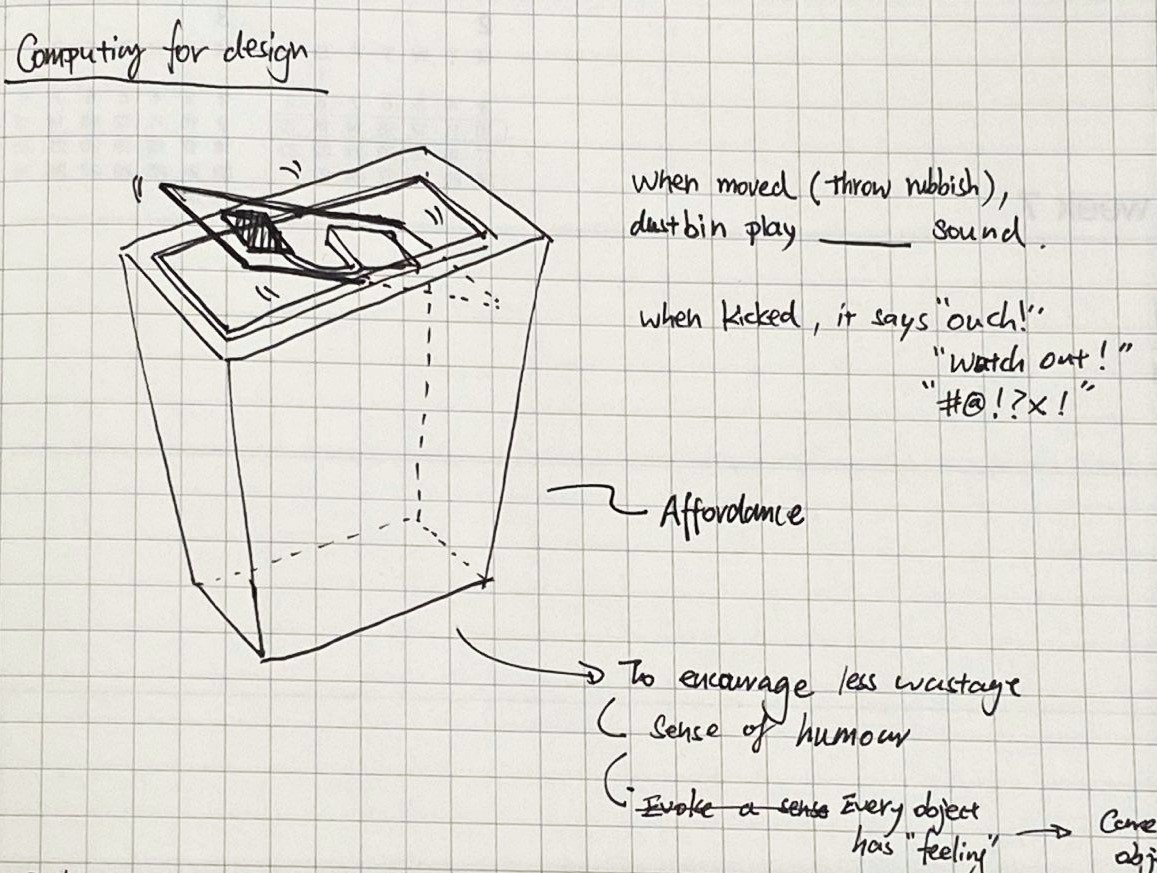
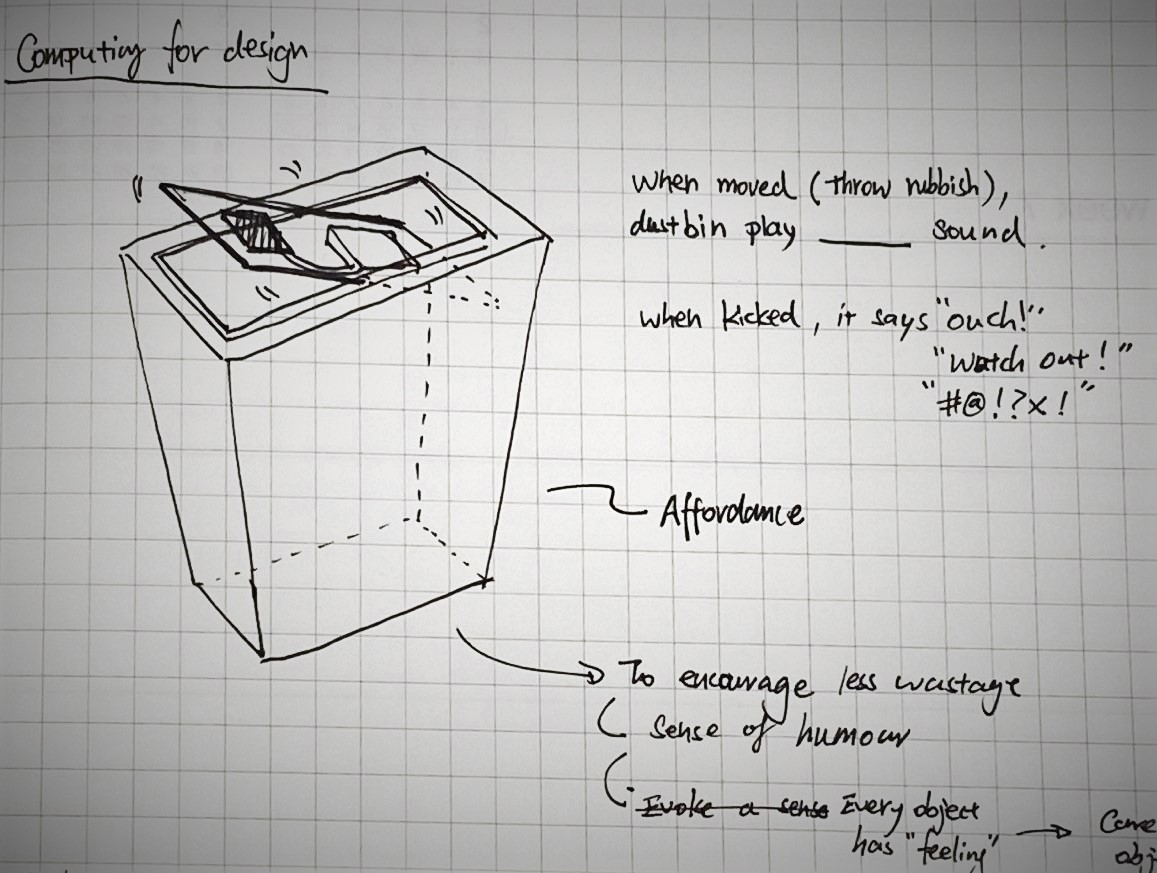
l

diff --git a/styleforwk3.css b/styleforwk3.css
@@ -54,7 +54,7 @@ html{
       right: 0;
       display: block;
       background-image: url(image/preview/week\ 3\ -\ ideation\ sketch.jpg);
-      background-size: 800px;
+      background-size: 1000px;
       transform-origin: center center 0;
       transform: translateZ(-1px) scale(2);
       z-index: 1;
